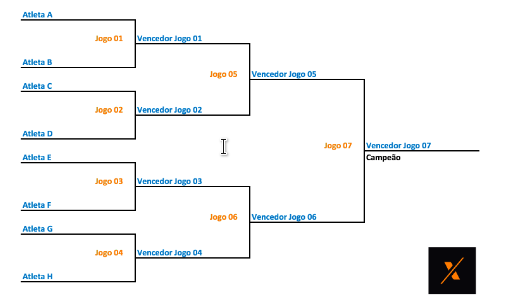
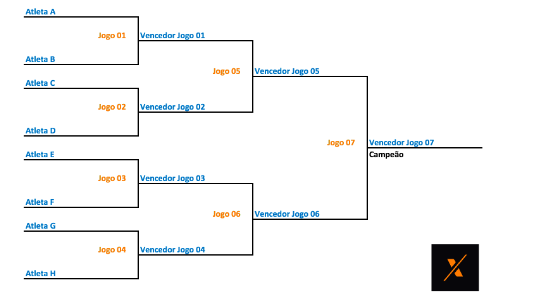
readme atualizado

Changed region(s): [[0.0311, 0.0294, 0.9339, 0.9412], [0.8093, 0.7941, 0.9339, 0.9706], [0.4358, 0.4412, 0.4669, 0.5]]

diff --git a/README.md b/README.md
@@ -26,7 +26,7 @@ O objetivo é podermos cadastrar times neste sistema de chaves (como o de um cam
 
 <br>
 
-<img alt="screenshot" title="screenshot" src=".github/screenshot.png" width="514px" height="308px"/>
+<h2 align="center"><img alt="screenshot" title="screenshot" src=".github/screenshot.png" width="534px" height="306px"/></h2>
 
 ## ⚡ Requisitos
 
